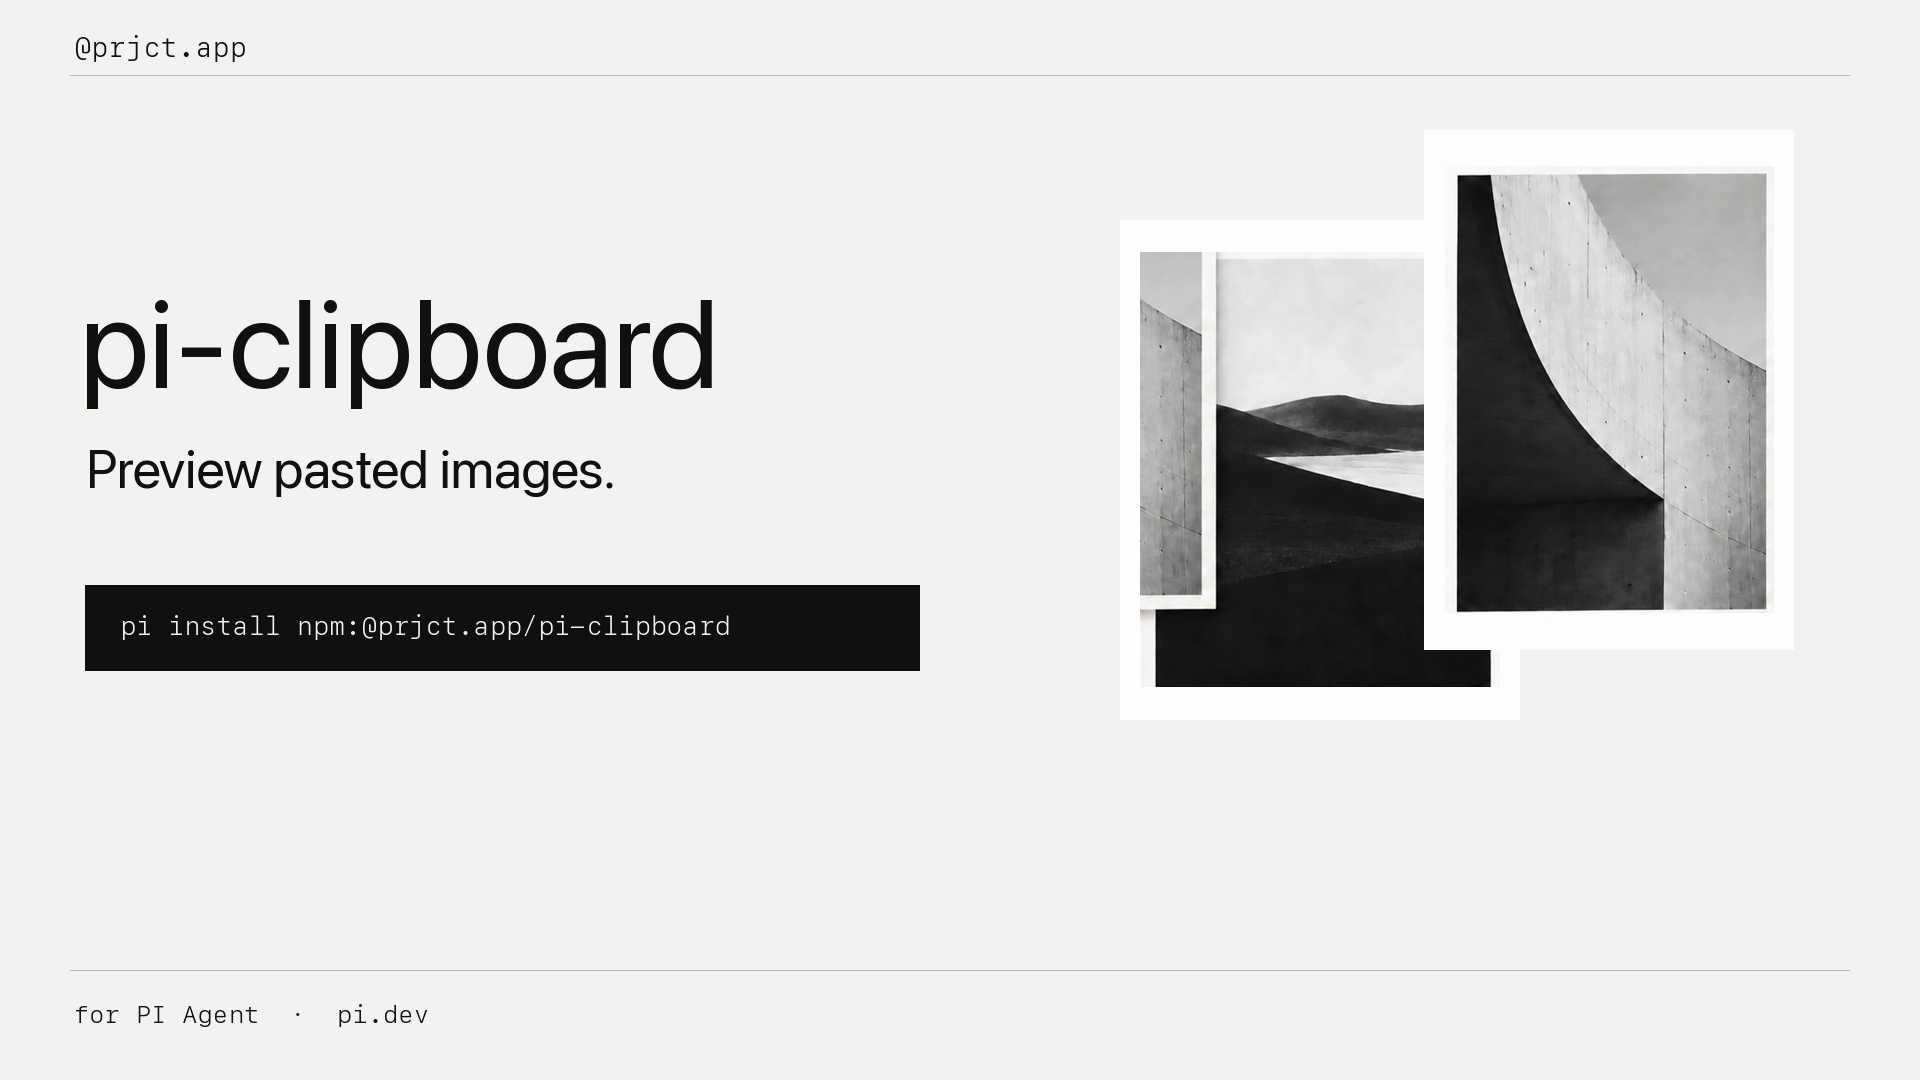
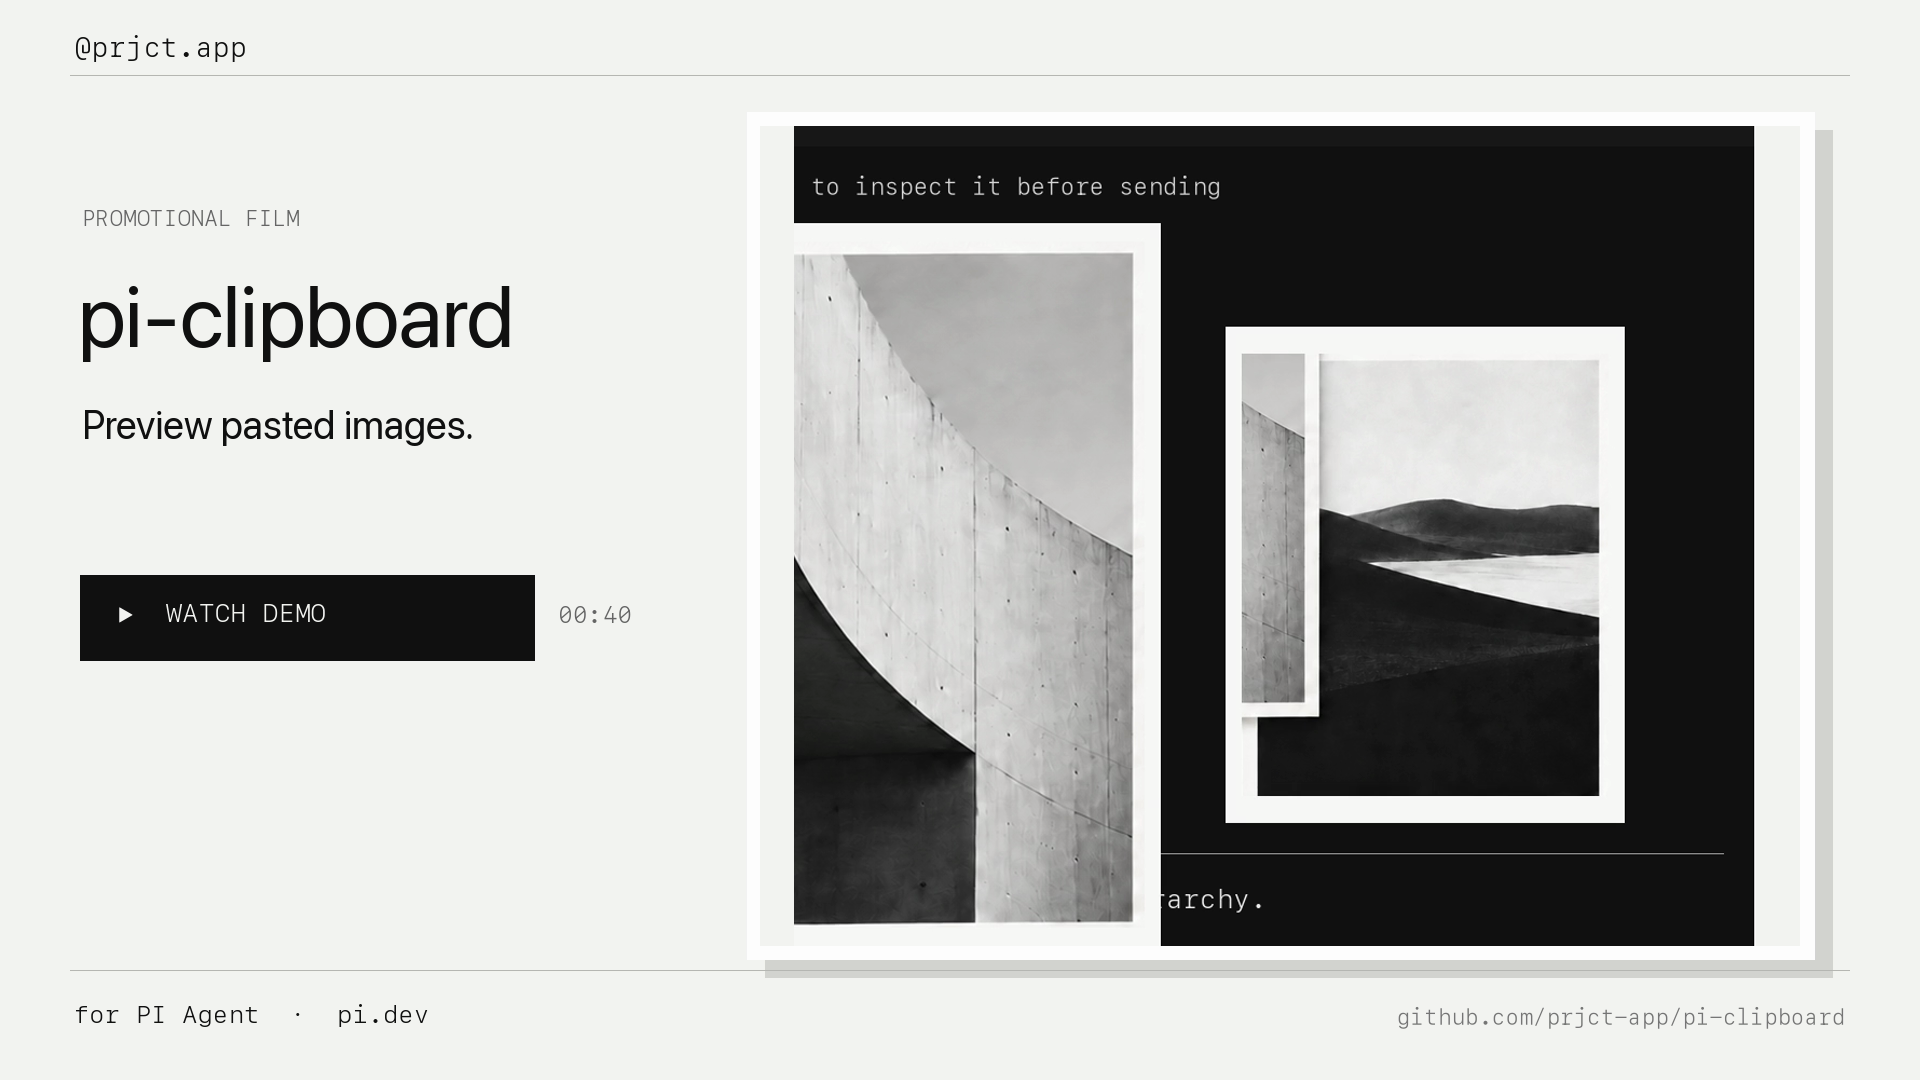
docs: fix demo cover

diff --git a/README.md b/README.md
@@ -8,7 +8,7 @@ Preview pasted images in PI Agent before sending them, with inline thumbnails an
 
 ## Demo
 
-[![Watch the pi-clipboard promotional demo](media/pi-clipboard-demo/poster.png)](https://github.com/prjct-app/pi-clipboard/raw/refs/heads/main/media/pi-clipboard-demo/pi-clipboard-demo.mp4)
+[![Watch the pi-clipboard promotional demo](https://raw.githubusercontent.com/prjct-app/pi-clipboard/main/media/pi-clipboard-demo/poster.png)](https://github.com/prjct-app/pi-clipboard/raw/refs/heads/main/media/pi-clipboard-demo/pi-clipboard-demo.mp4)
 
 [Watch or download the 40-second demo](https://github.com/prjct-app/pi-clipboard/raw/refs/heads/main/media/pi-clipboard-demo/pi-clipboard-demo.mp4). It shows the native PI Agent workflow for pasting, previewing, and reviewing one or several images before sending. The film uses the package's monochrome cover identity and an original instrumental soundtrack with no voice-over or external samples.
 

diff --git a/media/pi-clipboard-demo/README.md b/media/pi-clipboard-demo/README.md
@@ -2,6 +2,8 @@
 
 This 40-second product film introduces pi-clipboard for PI Agent developers. It follows the package's monochrome cover identity and demonstrates the real workflow: paste an image, preview one or several attachments, and send only when ready.
 
+[![Watch the pi-clipboard promotional demo](https://raw.githubusercontent.com/prjct-app/pi-clipboard/main/media/pi-clipboard-demo/poster.png)](https://github.com/prjct-app/pi-clipboard/raw/refs/heads/main/media/pi-clipboard-demo/pi-clipboard-demo.mp4)
+
 [Watch or download the MP4](pi-clipboard-demo.mp4)
 
 ## Media details
